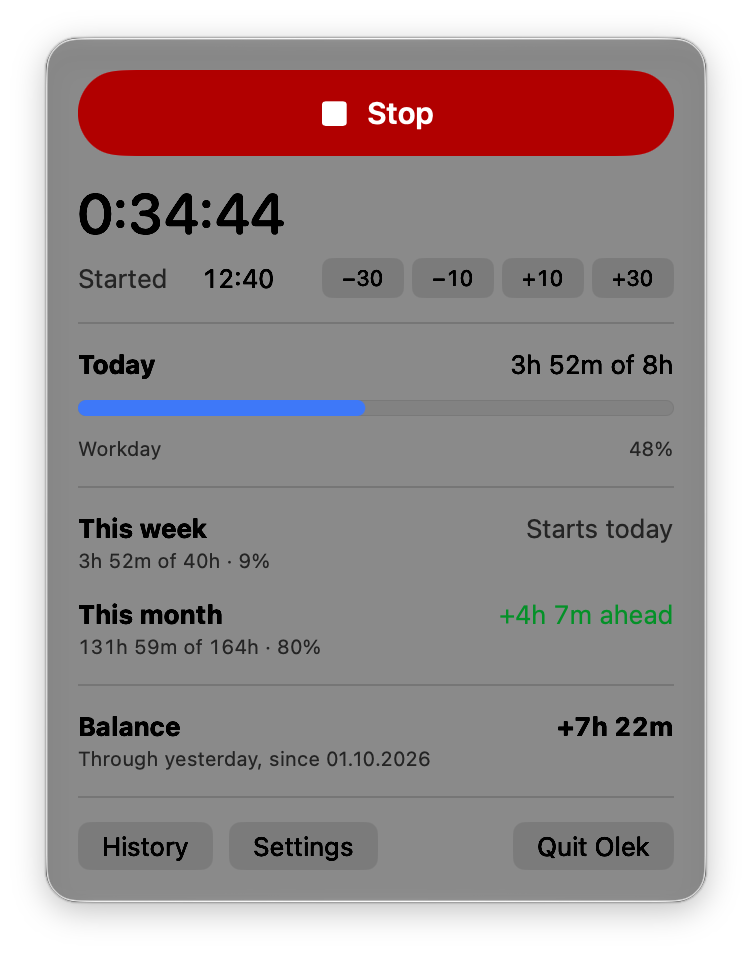
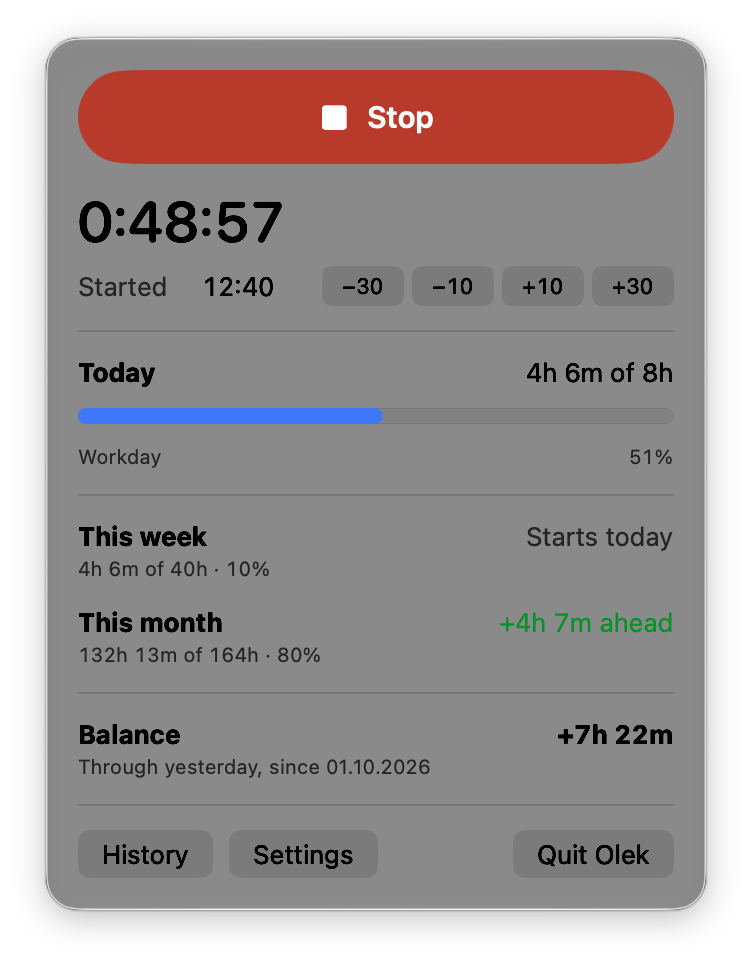
Readable Start/Stop button in dark mode; README uses light images only
The system tint turned the prominent button pale salmon in dark mode,
leaving white text hard to read. The button now uses fixed deep red and
green fills in both appearances.

diff --git a/Sources/Olek/PopoverView.swift b/Sources/Olek/PopoverView.swift
@@ -22,11 +22,9 @@ struct PopoverView: View {
                 )
                 .font(.title3.weight(.semibold))
                 .frame(maxWidth: .infinity)
-                .padding(.vertical, 6)
+                .padding(.vertical, 14)
             }
-            .buttonStyle(.borderedProminent)
-            .controlSize(.large)
-            .tint(model.isWorking ? .red : .green)
+            .buttonStyle(ToggleButtonStyle(color: model.isWorking ? .olekStop : .olekStart))
             .keyboardShortcut(.defaultAction)
 
             SessionSection(model: model)
@@ -358,5 +356,26 @@ private struct ReminderPromptView: View {
         .padding(10)
         .frame(maxWidth: .infinity, alignment: .leading)
         .background(.blue.opacity(0.12), in: RoundedRectangle(cornerRadius: 8))
+    }
+}
+
+// MARK: - Start/Stop button
+
+extension Color {
+    // Fixed deep colours instead of the system tint: in dark mode macOS lightens a tinted
+    // prominent button to a pale red, and white text on it becomes hard to read.
+    static let olekStop = Color(red: 0.78, green: 0.16, blue: 0.14)
+    static let olekStart = Color(red: 0.12, green: 0.53, blue: 0.27)
+}
+
+private struct ToggleButtonStyle: ButtonStyle {
+    let color: Color
+
+    func makeBody(configuration: Configuration) -> some View {
+        configuration.label
+            .foregroundStyle(.white)
+            .background(Capsule().fill(color))
+            .overlay(Capsule().fill(.black.opacity(configuration.isPressed ? 0.15 : 0)))
+            .contentShape(Capsule())
     }
 }

diff --git a/README.md b/README.md
@@ -12,10 +12,7 @@ It knows Estonian public holidays and the shortened days before them. It nudges 
 
 <p align="center">
   <img src="docs/images/popover.png" width="300" alt="The menu bar popover: a Stop button, the running session, today's progress, this week and month, and the balance">
-  <picture>
-    <source media="(prefers-color-scheme: dark)" srcset="docs/images/history-dark.png">
-    <img src="docs/images/history-light.png" width="520" alt="The History window: a month calendar coloured by whether each day met its target, next to the selected day's sessions">
-  </picture>
+  <img src="docs/images/history.png" width="520" alt="The History window: a month calendar coloured by whether each day met its target, next to the selected day's sessions">
 </p>
 
 ## Getting it
